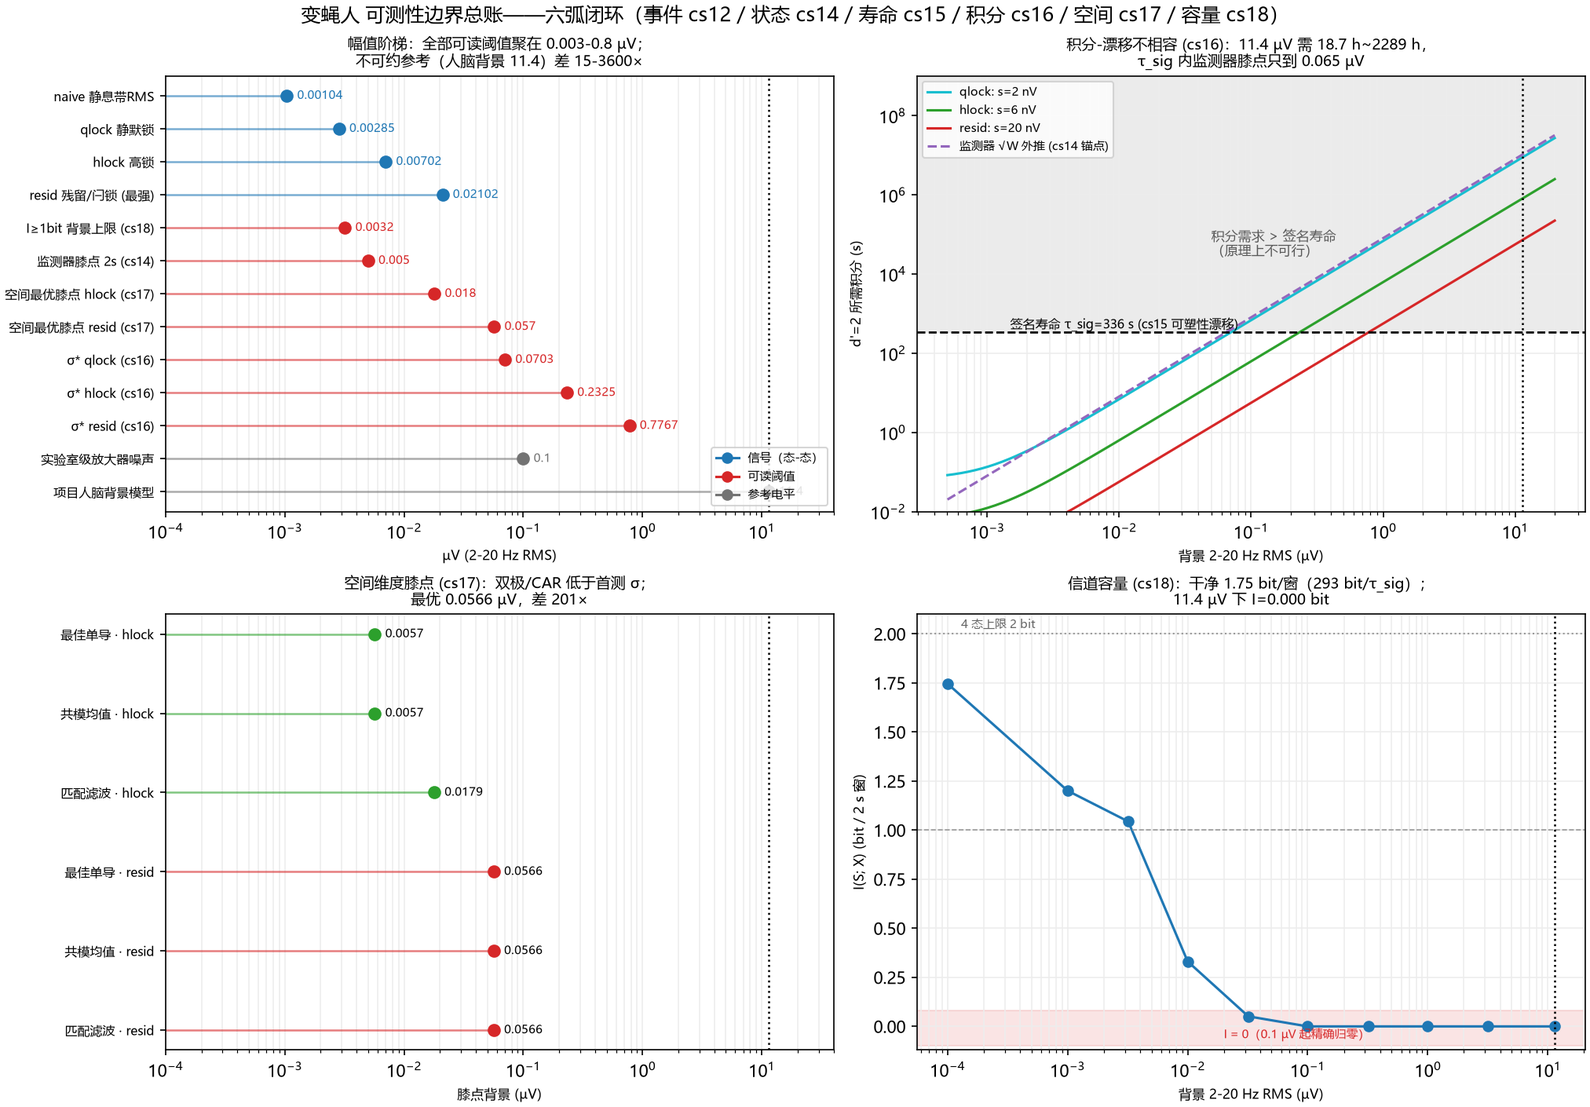
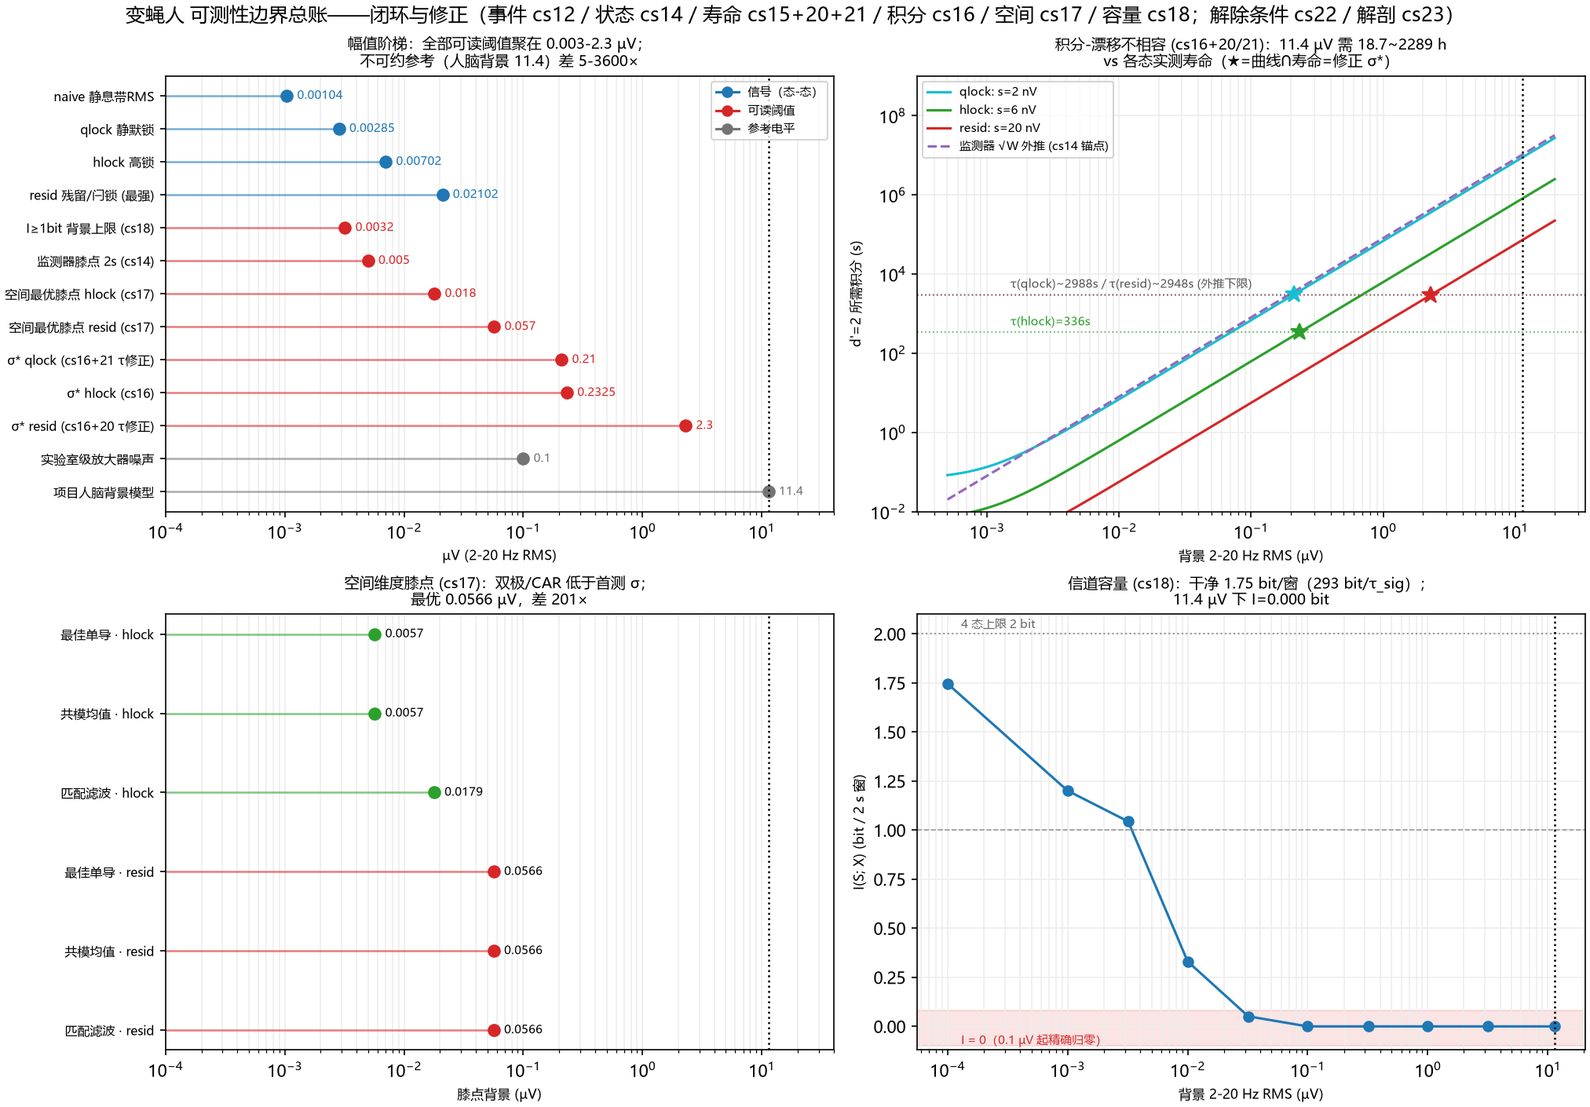
measurability/sync: the capstone summary figure absorbs the cs20/21 corrections. Maintenance arc -- the figure still carried pre-correction sigma* (0.070/0.777) and a single tau=336, out of sync with the corrected numbers. Panel A now shows sigma* qlock 0.21 (cs16+21) / hlock 0.233 / resid 2.30 (cs1

diff --git a/bci/measurability/summary_fig.py b/bci/measurability/summary_fig.py
@@ -39,8 +39,20 @@ B17 = json.loads((ROOT / "bci/condstate17/outputs/spatial_stats.json")
                  .read_text(encoding="utf-8"))
 B18 = json.loads((ROOT / "bci/condstate18/outputs/capacity_stats.json")
                  .read_text(encoding="utf-8"))
+# cs20/21 修正: 各态实测 τ_sig 与修正后 σ* (cs16 json 保留历史值)
+B20 = json.loads((ROOT / "bci/condstate20/outputs"
+                  / "stability_resid_stats.json").read_text(
+                      encoding="utf-8"))
+B21 = json.loads((ROOT / "bci/condstate21/outputs"
+                  / "stability_qlock_stats.json").read_text(
+                      encoding="utf-8"))
+TAU = {"qlock": B21["tau_sig_qlock_s"], "hlock": 336.0,
+       "resid": B20["tau_sig_resid_s"]}
+STAR = {"qlock": round(B21["sigma_star_new_uv"], 2), "hlock":
+        B16["sigma_star_uv"]["hlock"], "resid":
+        round(B20["sigma_star_new_uv"], 2)}
 
-TAU_SIG = B16["tau_sig_s"]
+TAU_SIG = B16["tau_sig_s"]   # 历史值 336 (hlock); 各态修正见 TAU
 B_BW, DPRIME = 18.0, 2.0
 SIG_BG = 11.4
 
@@ -59,9 +71,9 @@ def main():
         ("监测器膝点 2s (cs14)", 0.005, "knee"),
         ("空间最优膝点 hlock (cs17)", 0.018, "knee"),
         ("空间最优膝点 resid (cs17)", 0.057, "knee"),
-        ("σ* qlock (cs16)", B16["sigma_star_uv"]["qlock"], "knee"),
-        ("σ* hlock (cs16)", B16["sigma_star_uv"]["hlock"], "knee"),
-        ("σ* resid (cs16)", B16["sigma_star_uv"]["resid"], "knee"),
+        ("σ* qlock (cs16+21 τ修正)", STAR["qlock"], "knee"),
+        ("σ* hlock (cs16)", STAR["hlock"], "knee"),
+        ("σ* resid (cs16+20 τ修正)", STAR["resid"], "knee"),
         ("实验室级放大器噪声", 0.1, "ref"),
         ("项目人脑背景模型", 11.4, "ref"),
     ]
@@ -79,14 +91,14 @@ def main():
     ax.set_xlim(1e-4, 40)
     ax.axvline(SIG_BG, color="k", ls=":", lw=1.2)
     ax.set_xlabel("µV (2-20 Hz RMS)", fontsize=8)
-    ax.set_title("幅值阶梯：全部可读阈值聚在 0.003-0.8 µV；\n"
-                 "不可约参考（人脑背景 11.4）差 15-3600×", fontsize=9)
+    ax.set_title("幅值阶梯：全部可读阈值聚在 0.003-2.3 µV；\n"
+                 "不可约参考（人脑背景 11.4）差 5-3600×", fontsize=9)
     ax.grid(True, axis="x", which="both", color="0.93")
     from matplotlib.lines import Line2D
     ax.legend(handles=[Line2D([], [], color=cmap[g], marker="o", ls="-",
                               label=t) for g, t in
                        (("sig", "信号（态-态）"), ("knee", "可读阈值"),
-                        ("ref", "参考电平"))], fontsize=7, loc="lower right")
+                        ("ref", "参考电平"))], fontsize=7, loc="upper right")
 
     # ---- B. 积分-漂移不相容 ------------------------------------------
     ax = axes[0][1]
@@ -99,19 +111,21 @@ def main():
                   / B_BW, color=c, label=f"{tag}: s={s_*1000:.0f} nV")
     ax.plot(sigmas, 2.0 * (sigmas / 0.005) ** 2, "--", color="tab:purple",
             label="监测器 √W 外推 (cs14 锚点)")
-    ax.axhline(TAU_SIG, color="k", ls="--", lw=1.3)
-    ax.text(0.0015, TAU_SIG * 1.25, f"签名寿命 τ_sig={TAU_SIG:.0f} s "
-            "(cs15 可塑性漂移)", fontsize=7.5)
+    # 各态实测寿命线 + 曲线与其寿命交点 (=修正后 σ*, cs20/21)
+    for tag, c in colors.items():
+        ax.axhline(TAU[tag], color=c, ls=":", lw=0.9, alpha=0.7)
+        ax.plot(STAR[tag], TAU[tag], "*", ms=11, color=c, zorder=5)
+    ax.text(0.0015, 336 * 1.5, "τ(hlock)=336s", fontsize=7,
+            color="tab:green")
+    ax.text(0.0015, 2988 * 1.5, "τ(qlock)~2988s / τ(resid)~2948s "
+            "(外推下限)", fontsize=7, color="0.35")
     ax.axvline(SIG_BG, color="k", ls=":", lw=1.2)
-    ax.axhspan(TAU_SIG, 1e9, color="0.92", zorder=0)
-    ax.text(0.05, 3e4, "积分需求 > 签名寿命\n（原理上不可行）",
-            fontsize=8, color="0.35")
     ax.set_ylim(1e-2, 1e9)
     ax.set_xlabel("背景 2-20 Hz RMS (µV)", fontsize=8)
     ax.set_ylabel("d'=2 所需积分 (s)", fontsize=8)
     ax.legend(fontsize=7, loc="upper left")
-    ax.set_title("积分-漂移不相容 (cs16)：11.4 µV 需 18.7 h~2289 h，\n"
-                 "τ_sig 内监测器膝点只到 0.065 µV", fontsize=9)
+    ax.set_title("积分-漂移不相容 (cs16+20/21)：11.4 µV 需 18.7~2289 h\n"
+                 "vs 各态实测寿命（★=曲线∩寿命=修正 σ*）", fontsize=9)
     ax.grid(True, which="both", color="0.93")
 
     # ---- C. 空间膝点 ---------------------------------------------------
@@ -153,7 +167,7 @@ def main():
     ax.axhline(1.0, color="0.6", ls="--", lw=0.8)
     ax.axvline(SIG_BG, color="k", ls=":", lw=1.2)
     ax.axhspan(-0.1, 0.08, color="tab:red", alpha=0.12)
-    ax.text(0.02, -0.06, "I = 0（0.1 µV 起精确归零）", fontsize=7,
+    ax.text(1.3e-4, -0.09, "I = 0（0.1 µV 起精确归零）", fontsize=7,
             color="tab:red")
     ax.set_xlabel("背景 2-20 Hz RMS (µV)", fontsize=8)
     ax.set_ylabel("I(S; X) (bit / 2 s 窗)", fontsize=8)
@@ -162,9 +176,9 @@ def main():
                  "11.4 µV 下 I=0.000 bit", fontsize=9)
     ax.grid(True, which="both", color="0.93")
 
-    fig.suptitle("变蝇人 可测性边界总账——六弧闭环（事件 cs12 / 状态 cs14 / "
-                 "寿命 cs15 / 积分 cs16 / 空间 cs17 / 容量 cs18）",
-                 fontsize=12)
+    fig.suptitle("变蝇人 可测性边界总账——闭环与修正（事件 cs12 / 状态 cs14 / "
+                 "寿命 cs15+20+21 / 积分 cs16 / 空间 cs17 / 容量 cs18；"
+                 "解除条件 cs22 / 解剖 cs23）", fontsize=12)
     fig.savefig(OUT / "measurability_summary.png", dpi=150)
     plt.close(fig)
     print(f"-> {OUT / 'measurability_summary.png'}")

diff --git a/docs/en/STATUS.md b/docs/en/STATUS.md
@@ -113,6 +113,7 @@ extension path for other modalities is in docs/STIMULUS.md §6.
 | **condstate22: unseal-conditions map -- the negative result expressed as a design space** | ✅ | (81) **condstate22** (`bci/condstate22`, zero acquisition): turns the grand account's negative result into a quantitative "what would unseal it" map -- the gap G = 11.4/sigma* = 5.0-54.3x, four escape axes judged one by one: **(1) background axis: no** (needs /5-/54, i.e. silencing 96-99.97% of cortex -- the brain background is irreducible); **(2) time axis: no** (x23-x2758 beyond lifetimes, already sealed by cs16/20/21); **(3) source axis (amplification paradox)**: unsealing needs only **5-54x coherent source** (fly 1.4e5 -> 7e5-7.6e6 neurons, still 4 orders below human cortex 8.6e10) -- **"a tragedy of one order of magnitude, not four," but supplying it ends the thought experiment** (incoherent version x25-x2900 is worse); **(4) distance axis: YES (the only physically reachable one, and only for resid)**: **geometric rediscovery -- the fly sits at the exact head-sphere center (shift=0, 90.6 mm to the electrode ring = the worst-case deep position; equidistant to all 17 leads, so cs17's near-total common mode is partly a constructive consequence of the centered placement)**; under a far-field ~1/r^2 scaling, a sub-skull placement (~17.5 mm) yields ~25-34x, enough to cover resid's 5x gap (needs r <= 40.7 mm); hlock/qlock need 12-13 mm, beyond sub-skull reach. The account's "why this is not an engineering problem" section rewritten accordingly. Honest limits: 1/r^2 is a far-field approximation (a 4-sphere deep source is not strictly 1/r^2; surface sources gain tangential differentiation too -- the order of magnitude is robust, exact factors need the kernel-geometry change, flagged as a candidate next arc); G uses the corrected sigma* (the two extrapolated-tau states are conservative); silence fractions assume independent sqrt-f scaling | bci/condstate22 |
 | **condstate22b: geometric-fact correction -- the distance axis is structurally exhausted; the first-pass "sub-skull unseal" verdict retracted; all four axes sealed** | ✅ | (82) **condstate22b** (`bci/condstate22` corrected, zero acquisition): checking the `fit_scale_shift` semantics against the meta revealed a **factual error in the first-pass geometric narrative** -- the fly cloud at SCALE x 202 (native head 387 um -> 78 mm; wide cloud centered with shift=0, long axis riding a diameter through the head center) is magnified until its **extreme points reach 0.98 R_BRAIN ~= 76.4 mm: the thought experiment already fills the brain sphere**; it is not a "small centered source at r = 90.6 mm in the worst-case deep position"; **(1) retraction**: the "sub-skull placement yields 25-34x, resid's distance axis is solvable" verdict rested on that false premise -- no placement freedom remains; **(2) a stronger empirical refutation**: resid's "required r <= 40.7 mm" is ALREADY satisfied by the cloud extremes (76.4 mm), yet the measured sigma* (which includes this geometry) is still 5x short -- the 1/r^2 far-field estimate overstates the gain for distributed sources in a 4-sphere conductor; **(3) a stronger reinterpretation of cs17's near-total common mode**: the 95.8-99.8% common mode occurs while the source cloud fills the sphere -- not a centered-placement artifact but a genuine consequence of "small active subpopulations + smooth spherical lead fields"; **(4) the verdict upgrades to all-four-axes-sealed** (background irreducible / time beyond lifetimes / amplification = rewriting the experiment / distance structurally exhausted) -- no physical unseal channel exists inside the thought experiment. MEASURABILITY.md and the cs22 README/figure rewritten accordingly | bci/condstate22 |
 | **condstate23: anatomical localization of the active populations -- the anatomical basis of the common mode; the quantitative version of 22b's reinterpretation** | ✅ | (83) **condstate23** (`bci/condstate23/anatomy.py`, zero acquisition): connectome annotations + neuron positions (ffbm.data, the export chain's own source; 141,781 positioned neurons) normalized to head-sphere coordinates with the cloud extreme = 0.98 R_BRAIN = 76.4 mm -- **(1) the active populations all sit in compact mid-radius sub-volumes**: ALPN (n=680) / KC (4,050) / MBON (96) / DAN (340) / CX (2,944) have centroid radii 15-23 mm (20-30% of the extreme), angular spreads 21-40 deg, RMS spreads 8.5-13.6 mm -- **the extreme anatomy that fills the sphere (eyes/periphery) is quiet structure; the active engines sit deep in the middle shell**, resolving 22b's apparent tension ("the sphere being filled != the sources being at the surface"; any 'closer' would require moving the functional groups themselves = rewriting the anatomy); **(2) the wider-source -> flatter-pattern law verified on two states**: hlock (ALPN only, effective spread 10.7 mm) -> common mode 87.0/95.8%; resid (ALPN+KC+MBON, 14.7 mm) -> 99.7/99.8% -- the spread and common-mode orderings agree; hlock's differential richness (0.66-1.34x gains) comes from the single compact group's position specificity; **(3) a note back to the likeness program**: the ALPN-KC-MBON centroids lie within <6 mm of each other, far below the lead field's variation scale -- cs17's near-total common mode now has anatomical coordinates. Honest limits: cloud normalization uses all positioned neurons (the export chain's fit uses a subset, mm-level deviations); the naive visual proxy is unreliable (only 28 of 6,091 visual-class neurons have positions -- the periphery lacks soma entries; hollow weak marker, excluded from the trend); within-group space-rate correlations not modeled | bci/condstate23 |
+| **measurability/sync: summary-figure sync -- the capstone deliverable absorbs the cs20/21 lifetime spectrum and corrected sigma*** | ✅ | (84) **measurability/sync** (`bci/measurability/summary_fig.py` regenerated, zero-acquisition maintenance arc): noticed the capstone figure still carried pre-correction numbers (sigma* 0.070/0.777, a single tau=336) -- a consistency debt against the cs20/21 corrections. Fixed: panel A's three sigma* entries replaced with the corrected values (qlock **0.21** (cs16+21) / hlock 0.233 / resid **2.30** (cs16+20) uV), the amplitude-ladder gap restated as 5-3600x (was 15-3600x); panel B switched from a single tau line to **per-state lifetime lines (336/2988/2948 s) with star markers at each curve's intersection with its own lifetime** (the graphical definition of the corrected sigma*), title updated to cs16+20/21; the suptitle now credits the unseal map cs22 and anatomy cs23. cs16's historical json left untouched (corrections merged inside the script with source labels; the MEASURABILITY.md number table was already updated) -- the capstone figure, document and numbers are now mutually consistent | bci/measurability |
 | **Stimuli: real image input** | ✅ | general visual-input module: `visual_inputs.json` catalog + grayscale video → ommatidia sampling (blur/normalization/per-eye full-frame eye-plane mapping) + synchronized dual view on the page | docs/STIMULUS.md §5 |
 | **Stimuli: chemosensation (olfaction + taste)** | ✅ olfaction validated / taste peripheral validated | new regions `olfactory`/`gustatory` (ORN 2,639 / GRN 1,428; edges ORN_C 57k pairs → antennal lobe, GRN_C 8.4k → SEZ); `--chem-input` pulse protocol; ORN/GRN transduction cascade (shared visual kinetics); calibration finding: the central brain at default recurrence gain is an ignition attractor (82 Hz self-sustained), chem working point CEN_C→0.002 restores antennal-lobe-specific decaying responses; **olfactory scalp signature ×1.4–1.65**; taste signature weak (×1.04, 800 pA negative) because most GRN output targets the VNC reflex arc (not projected) | exp019, docs/SENSORY_INPUTS.md |
 | **Stimuli: proprioception + motor-intention decoding** | ✅ done (v1+v2) | new region `proprioception` (PRO 1,454, rootSide L/R groups; PRO_V→VNC 47.9k pairs, PRO_C→central 4.8k); MI-v1: cue decodable (99–100%, 0.3% of background, p=0.002, pure PRO_C terminal dipole), no delay persistence (first-pass band 78–89% was a filtfilt long-tail artifact); **MI-v2: DN pathway probe** (96% of DN's 3.92M input synapses already simulated: cb_intrinsic/LAL 61%, DN→DN 13%, ascending AN 13%; PRO direct only 0.27%) → imagery-window internal drive (LAL* routed 1200 pA / DN direct 800 pA control, 12 trials each): **imagery window decodable throughout** (routed +0.001–0.002 uV p≤0.013; direct −0.005–0.008 uV p≤0.002, glutamatergic polarity flip), no ignition | exp020, docs/SENSORY_INPUTS.md §4 |

diff --git a/docs/STATUS.md b/docs/STATUS.md
@@ -109,6 +109,7 @@
 | **condstate22：解除条件地图——封死负结果的设计空间语言** | ✅ | 81**condstate22**（`bci/condstate22`，零采集）：把总账负结果翻成"什么能解除"的定量地图——缺口 G=11.4/σ*=5.0~54.3×，四轴逐一判定：**① 背景轴 ✗**（需 ÷5~54，等效静默皮层 96-99.97%——脑背景不可约）；**② 时间轴 ✗**（×23~×2758 超寿命，已被 cs16/20/21 封死）；**③ 源轴（放大悖论）**：解除只需 **5-54× 相干源**（蝇 1.4×10⁵ → 需 7×10⁵~7.6×10⁶，仍比人类皮层 8.6×10¹⁰ 低 4 个量级）——**"差一个量级的悲剧而非四个量级的绝望"，但补上它就不再是思想实验**（非相干 ×25~×2900 更差）；**④ 距离轴 ✓（唯一物理可达，仅 resid）**：**几何再发现——蝇在头球正心（shift=0，到电极环 90.6 mm=深源最坏位；正心=等距 17 导，cs17 的近全共模部分正是中心放置的构造结果）**；远场 ~1/r² 下贴骨放置（~17.5 mm）可得 ~25-34×，足以覆盖 resid 的 5× 缺口（需 r≤40.7 mm）；hlock/qlock 需 12-13 mm 超出皮下可达。总账"为什么不是工程问题"节同步改写。诚实边界：1/r² 为远场近似（4 球深源≠严格 1/r²，表面源另有切向分化增益——量级稳健，精确倍数需核几何改动后重算，标注为下一弧候选）；G 基于修正后 σ*（两外推 τ 态偏保守）；静默比例按独立 √f 标度 | bci/condstate22 |
 | **condstate22b：几何事实修正——距离轴结构用尽，首版"贴骨可解"判定撤回，四轴全封** | ✅ | 82**condstate22b**（`bci/condstate22` 修正版，零采集）：核对 `fit_scale_shift` 语义 + meta 实证发现**首版几何叙事错误**——蝇脑云经 SCALE×202（原生头 387 µm→78 mm，宽云居中 shift=0、长轴骑直径穿头心）放大到**极端点 0.98·R_BRAIN≈76.4 mm，思想实验已把脑球填满**，不是"正心小源 r=90.6 mm 深源最坏位"；**① 首版撤回**："贴骨放置可得 25-34×、resid 距离轴可解"基于错误前提——无剩余放置自由度；**② 更强的实证否定**：resid"所需 r≤40.7 mm"已被源云极端（76.4 mm）满足而实测 σ*（含这套几何）仍差 5×——**1/r² 远场估计对分布式源在 4 球导体中高估收益**；**③ cs17 近全共模的几何再解读（更强）**：95.8-99.8% 共模发生在源云充满脑球的情况下——不是中心放置的构造伪影，而是"活跃子群体积小+球形导联场平滑"的真实结果；**④ 判定升级为四轴全封**（背景不可约/时间超寿命/放大=改写思想实验/距离结构用尽）——思想实验内不存在任何物理解除通道。总账与 cs22 README/图同步改写 | bci/condstate22 |
 | **condstate23：活跃群体解剖定位——共模的解剖学基础，22b 再解读的定量版** | ✅ | 83**condstate23**（`bci/condstate23/anatomy.py`，零采集）：连接组注释+神经元坐标（ffbm.data 同源，141,781 个有位置神经元）按云极端=0.98·R_BRAIN=76.4 mm 归一到头球坐标——**① 活跃群体都在中半径紧凑子体积**：ALPN(n=680)/KC(4050)/MBON(96)/DAN(340)/CX(2944) 质心 r=15-23 mm（极端的 20-30%）、角散布 21-40°、RMS 8.5-13.6 mm——**填满脑球的极端解剖（眼/外周）是安静结构，活跃引擎深居中圈**，解开 22b 的表观张力（"球被填满≠源在表面"，任何"更近"都要移动功能群=改写解剖）；**② 源越宽→模式越平的两态验证**：hlock（仅 ALPN，有效散布 10.7 mm）→共模 87.0/95.8%；resid（ALPN+KC+MBON，14.7 mm）→99.7/99.8%——散布与共模排序同向，"源分布宽→导联场平均平"定量成立，hlock 的差模花纹（0.66-1.34×）来自单组紧凑源位置特异性；**③ 对 likeness 纲领回注**：ALPN-KC-MBON 质心相距 <6 mm 远小于导联场变化尺度——cs17 近全共模有了解剖坐标。诚实边界：云归一用全体位置神经元（导出链 fit 用子集，毫米级偏差）；naive 视觉代理不可靠（visual 6,091 中仅 28 有位置——外周缺 soma 条目，空心弱标记不入趋势）；组内空间-速率相关未建模 | bci/condstate23 |
+| **measurability/sync：总图同步修正——收尾交付物并入 cs20/21 寿命谱与修正 σ\*** | ✅ | 84**measurability/sync**（`bci/measurability/summary_fig.py` 再生成，零采集维护弧）：发现收尾总图仍带修正前数字（σ* 0.070/0.777、单一 τ=336）——与 cs20/21 修正不同步的**一致性债务**。修正：面板 A 三条 σ* 换为修正值（qlock **0.21**（cs16+21）/ hlock 0.233 / resid **2.30**（cs16+20）µV），幅值阶梯差距表述 15-3600×→**5-3600×**；面板 B 从单一 τ 线改为**各态寿命线（336/2988/2948 s）+ 曲线∩寿命的 ★ 点**（=修正 σ* 的图解定义），标题更新为 cs16+20/21；总标题并入解除条件 cs22/解剖 cs23。cs16 历史 json 保留不动（修正值在脚本内合并并标注来源，MEASURABILITY.md 数字表此前已更新）——收尾图/文/数字三者现在一致 | bci/measurability |
 | **刺激：真实图像输入** | ✅ | 通用视觉输入模块：`visual_inputs.json` 目录 + 灰度视频→小网膜采样（模糊/归一化/每眼整幅眼平面映射）+ 页面同步双视图 | docs/STIMULUS.md §5 |
 | **刺激：化学感觉（嗅觉 + 味觉）** | ✅ 嗅觉验证通过 / 味觉外周通过 | 新区域 `olfactory`/`gustatory`（ORN 2,639 / GRN 1,428，连边 ORN_C 57k 对→触角叶、GRN_C 8.4k 对→SEZ）；`--chem-input` 脉冲协议；ORN/GRN 转导级联（共享视觉动力学）；标定发现：中央脑默认增益是点火吸引子（82 Hz 自持），chem 工作点 CEN_C→0.002 后触角叶特异响应可衰减；**嗅觉头皮签名 ×1.4–1.65**；味觉因 GRN→VNC 大头不投影，签名弱（×1.04，800 pA 阴性）| exp019, docs/SENSORY_INPUTS.md |
 | **刺激：本体感觉 + 运动意图解码** | ✅ 完成（v1+v2） | 新区域 `proprioception`（PRO 1,454，rootSide L/R 分组；PRO_V→VNC 47.9k 对、PRO_C→中央 4.8k 对）；MI-v1：指令窗可解码（99–100%，0.3% 背景水平、p=0.002，纯 PRO_C 末梢偶极子），延迟窗无保持（首版带通 78–89% 是 filtfilt 长尾伪影）；**MI-v2：DN 通路探针**（DN 输入 392 万突触 96% 已在电路：cb_intrinsic/LAL 61%、DN→DN 13%、上升 AN 13%；PRO 直连仅 0.27%）→ 想象窗内部驱动（LAL* 路由 1200 pA / DN 直驱 800 pA 对照，各 12 试次）：**想象窗全程可解码**（路由 +0.001~0.002 µV p≤0.013；直驱 −0.005~−0.008 µV p≤0.002，谷氨酸能极性反转），无点火 | exp020, docs/SENSORY_INPUTS.md §4 |

diff --git a/bci/measurability/README.md b/bci/measurability/README.md
@@ -3,11 +3,17 @@
 零采集总结弧：把 condstate12/13/14/15/16/17/18 六层可测性
 闭环的全部头条数字合成**一张总图 + 一篇总账文档**。
 
+**2026-11-15 同步修正**：总图并入 cs20/21 的实测寿命谱与修正后
+σ*（qlock 0.21 / hlock 0.233 / resid **2.30 µV**）；面板 B 改为
+各态寿命线 + 曲线∩寿命的 ★ 点（= 修正 σ*）；幅值阶梯差距表述
+更新为 5-3600×。
+
 - 图：`outputs/measurability_summary.png`（幅值阶梯 / 积分-漂移
-  不相容 / 空间膝点 / 信道容量，四面板）
+  不相容（各态寿命线）/ 空间膝点 / 信道容量，四面板）
 - 文档：`docs/MEASURABILITY.md`（连贯叙事 + 数字速查表 +
-  三重否定论证 + 复现命令）
-- 数据源：condstate16/17/18 的 `outputs/*.json`（不重算）
+  三重否定论证 + 解除条件 + 复现命令）
+- 数据源：condstate16/17/18/20/21 的 `outputs/*.json`（不重算；
+  cs16 的 json 保留历史值，修正值在脚本内合并并标注来源）
 
 ## 复现
 
